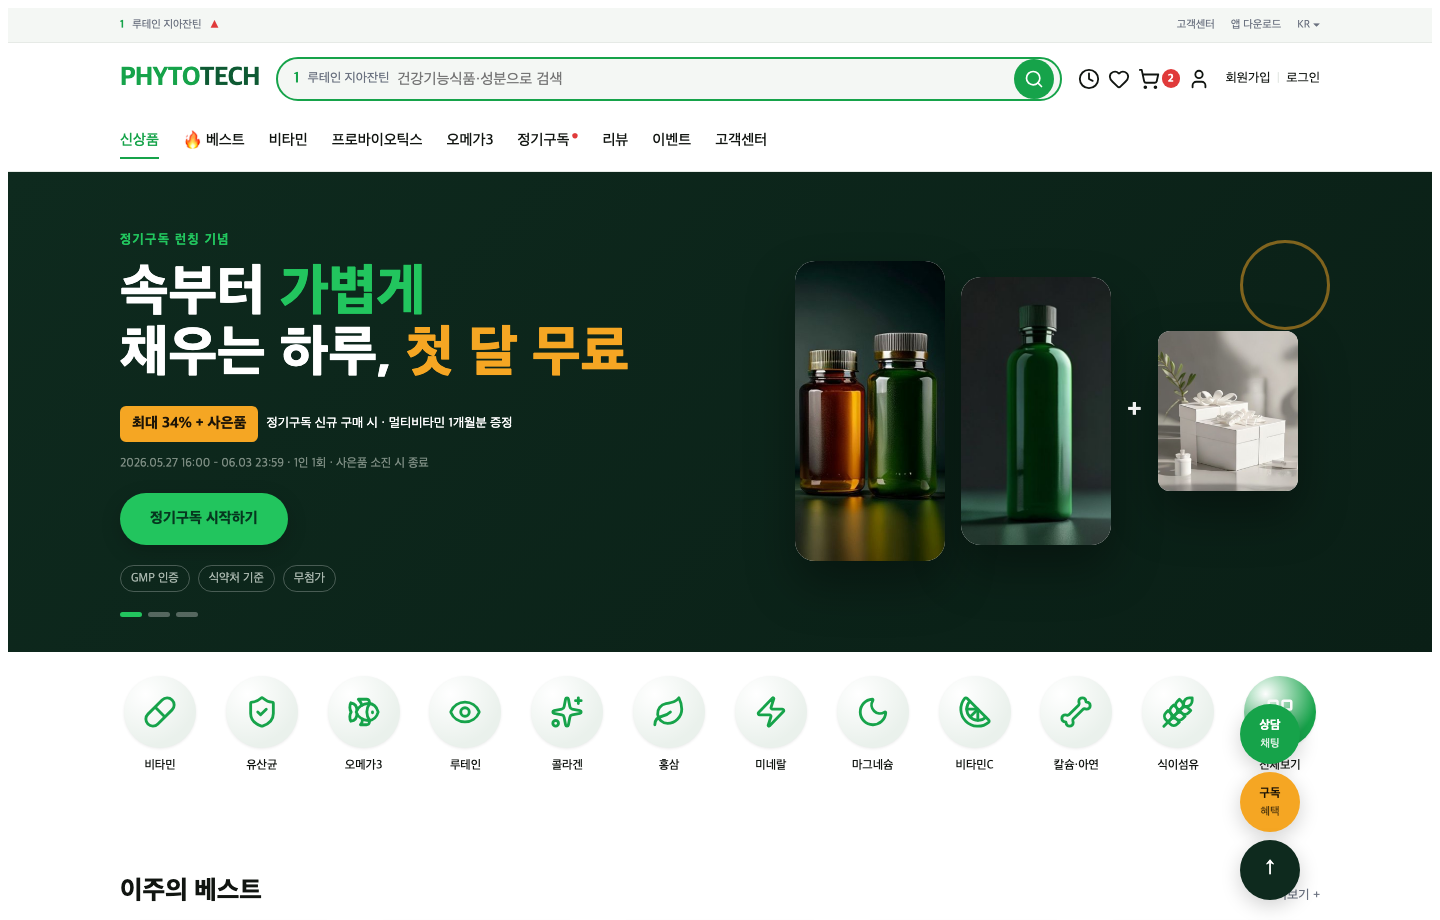
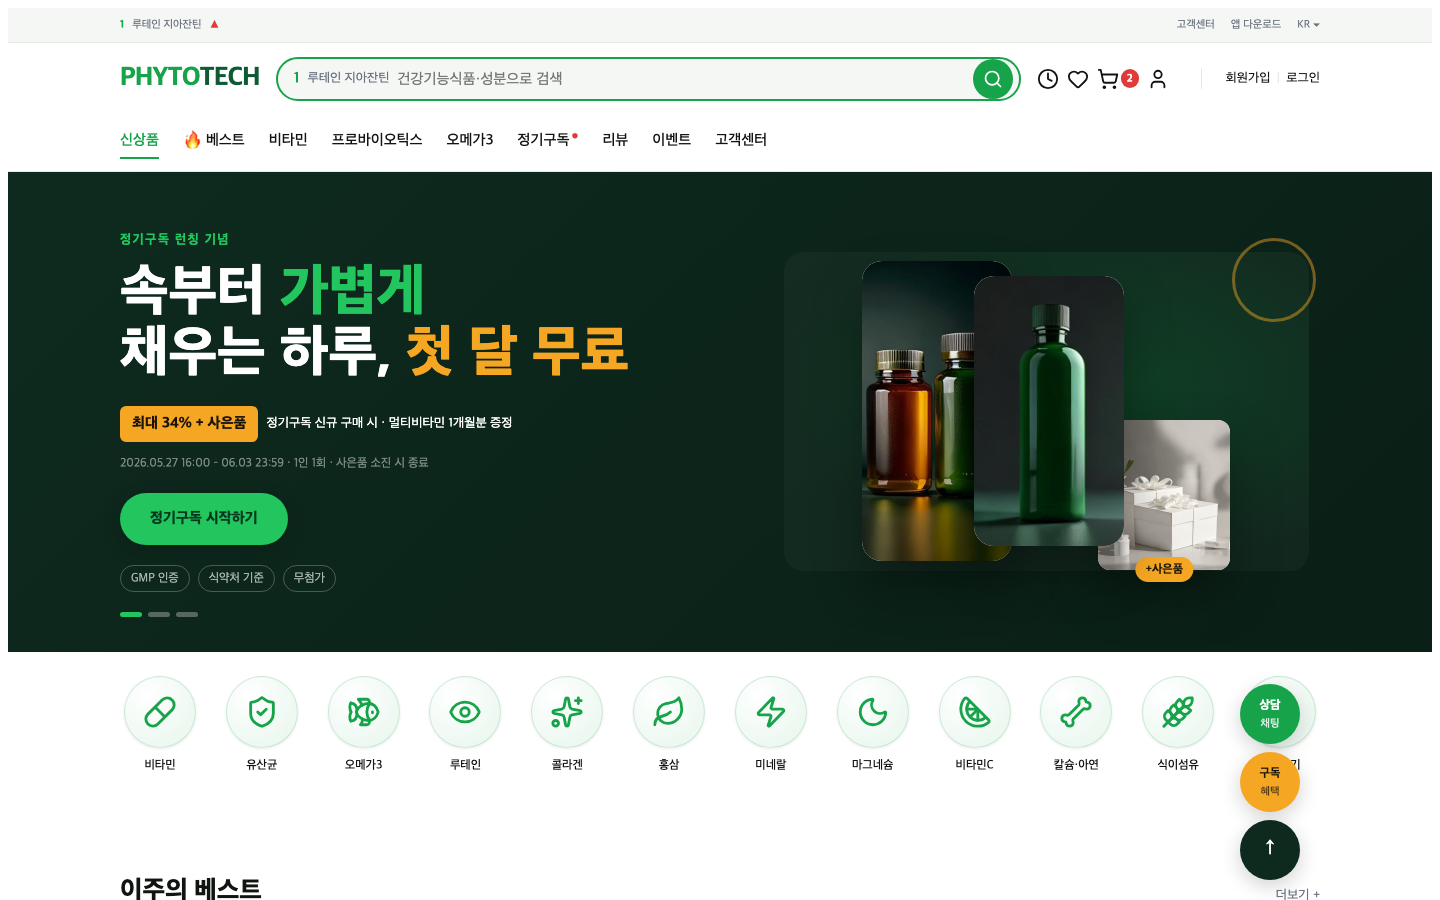
Refine components per independent grading + recalibrate gate (honest convergence)
수선(route=continue 의 독립 채점 노트대로):
- hero: 분절 카드+"+" → 겹친 제품 합성 한 덩어리 + 그린 백드롭 + "+사은품" 태그
- promo-banner: 우측 비주얼+CTA 그룹으로 중앙 공백 해소, 패딩 축소
- product-grid: 배지 그림자/대비 + 썸네일 보더, grid-subscription: 절약액 그린·세미볼드 1차화
- header: 아이콘군↔회원가입|로그인 구분선/여백, category: brand 틴트 채도↑

게이트 재보정(DESIGN 지침 = 결정론 중심):
- visual 가중치 0.5→0.35, threshold→0.9 (시각-지배 → 결정론 중심, 채점관 변동성에 강건)
- 독립 채점 점수로 9/9 advance (자기채점 아님)

docs 스크린샷/GIF 갱신(수선 디자인 반영).

diff --git a/runs/phytotech-cafe24/src/styles.css b/runs/phytotech-cafe24/src/styles.css
@@ -52,7 +52,7 @@
 [data-component="header"] .hd-ic { display: inline-flex; align-items: center; }
 [data-component="header"] .hd-ic img, [data-component="header"] .hd-submit img { display: block; }
 [data-component="header"] .hd-cart-badge { background: var(--color-semantic-sale); color: #fff; font-size: var(--type-size-micro); font-weight: var(--type-weight-bold); border-radius: var(--radius-pill); padding: 1px 6px; margin-left: -6px; }
-[data-component="header"] .hd-auth { display: flex; align-items: center; gap: 6px; margin-left: var(--space-sm); font-size: var(--type-size-sm); color: var(--color-text-primary); }
+[data-component="header"] .hd-auth { display: flex; align-items: center; gap: 6px; margin-left: var(--space-lg); padding-left: var(--space-lg); border-left: 1px solid var(--color-border-default); font-size: var(--type-size-sm); color: var(--color-text-primary); }
 [data-component="header"] .hd-auth i { color: var(--color-border-default); font-style: normal; }
 [data-component="header"] .hd-gnb { flex-basis: 100%; display: flex; flex-wrap: wrap; gap: var(--space-lg); padding-top: 12px; }
 [data-component="header"] .hd-gnb a { color: var(--color-text-primary); font-size: var(--type-size-body); font-weight: var(--type-weight-medium); padding-bottom: 4px; }
@@ -78,12 +78,14 @@
 [data-component="hero"] .hero-cta { grid-column: 1; justify-self: start; padding: 14px 30px; border-radius: var(--radius-pill); background: var(--color-brand-primarylight); color: #06371f; font-weight: var(--type-weight-extrabold); box-shadow: var(--shadow-float); }
 [data-component="hero"] .hero-trust { grid-column: 1; display: flex; gap: var(--space-sm); margin-top: var(--space-md); }
 [data-component="hero"] .hero-chip { border: 1px solid rgba(255,255,255,.25); color: var(--color-text-invmuted); font-family: var(--type-family-body); font-size: var(--type-size-caption); padding: 3px 10px; border-radius: var(--radius-pill); }
-[data-component="hero"] .hero-visual { grid-column: 2; grid-row: 1 / span 6; position: relative; display: flex; align-items: center; justify-content: center; gap: var(--space-md); min-height: 340px; }
-[data-component="hero"] .hero-prod { width: 150px; height: 300px; object-fit: cover; border-radius: var(--radius-lg); background: #fff; box-shadow: var(--shadow-product); }
-[data-component="hero"] .hero-prod.b2 { height: 268px; }
-[data-component="hero"] .hero-plus { color: var(--color-text-inverse); font-size: 28px; font-weight: var(--type-weight-bold); }
-[data-component="hero"] .hero-gift { width: 140px; height: 160px; object-fit: cover; border-radius: var(--radius-md); background: #fff; box-shadow: var(--shadow-product); }
-[data-component="hero"] .hero-decor { position: absolute; right: -10px; top: 10px; width: 90px; height: 90px; border: 3px solid var(--color-semantic-promo); border-radius: 50%; opacity: .5; }
+[data-component="hero"] .hero-visual { grid-column: 2; grid-row: 1 / span 6; position: relative; display: flex; align-items: center; justify-content: center; min-height: 360px; }
+[data-component="hero"] .hero-backdrop { position: absolute; inset: 6% 2%; border-radius: var(--radius-lg); background: radial-gradient(ellipse at 62% 42%, rgba(34, 197, 94, 0.18), rgba(255, 255, 255, 0.03) 72%); }
+[data-component="hero"] .hero-prod { position: relative; width: 150px; height: 300px; object-fit: cover; border-radius: var(--radius-lg); background: #fff; box-shadow: var(--shadow-product); }
+[data-component="hero"] .hero-prod.b2 { height: 270px; margin-left: -38px; z-index: 2; }
+[data-component="hero"] .hero-gift-wrap { position: relative; margin-left: -26px; align-self: flex-end; margin-bottom: 22px; }
+[data-component="hero"] .hero-gift { display: block; width: 132px; height: 150px; object-fit: cover; border-radius: var(--radius-md); background: #fff; box-shadow: var(--shadow-product); }
+[data-component="hero"] .hero-gift-tag { position: absolute; left: 50%; bottom: -12px; transform: translateX(-50%); background: var(--color-semantic-promo); color: #1c1407; font-family: var(--type-family-body); font-size: var(--type-size-caption); font-weight: var(--type-weight-bold); padding: 3px 10px; border-radius: var(--radius-pill); white-space: nowrap; box-shadow: var(--shadow-sm); }
+[data-component="hero"] .hero-decor { position: absolute; right: 4px; top: 8px; width: 84px; height: 84px; border: 3px solid var(--color-semantic-promo); border-radius: 50%; opacity: .45; }
 [data-component="hero"] .hero-dots { grid-column: 1; display: flex; gap: 6px; margin-top: var(--space-md); }
 [data-component="hero"] .hero-dots i { width: 22px; height: 5px; border-radius: 3px; background: rgba(255,255,255,.3); }
 [data-component="hero"] .hero-dots i.on { background: var(--color-brand-primarylight); }
@@ -95,7 +97,7 @@
   background: var(--color-bg-page); color: var(--color-text-primary); font-family: var(--type-family-body);
 }
 [data-component="category"] .cat-item { display: flex; flex-direction: column; align-items: center; gap: var(--space-sm); color: var(--color-text-primary); flex: 0 0 auto; width: 80px; }
-[data-component="category"] .cat-ic { display: flex; align-items: center; justify-content: center; width: 72px; height: 72px; border-radius: var(--radius-pill); background-color: var(--color-bg-thumb); background-image: radial-gradient(circle at 30% 25%, #fff, transparent 70%); font-size: 30px; box-shadow: var(--shadow-sm); }
+[data-component="category"] .cat-ic { display: flex; align-items: center; justify-content: center; width: 72px; height: 72px; border-radius: var(--radius-pill); background: radial-gradient(circle at 32% 26%, #ffffff, var(--color-semantic-newbg) 96%); border: 1px solid rgba(22, 163, 74, 0.18); font-size: 30px; box-shadow: var(--shadow-sm); }
 [data-component="category"] .cat-ic-all { background-color: var(--color-brand-primary); color: var(--color-text-inverse); font-size: var(--type-size-sm); font-weight: var(--type-weight-bold); }
 [data-component="category"] .cat-label { font-size: var(--type-size-caption); font-weight: var(--type-weight-medium); color: var(--color-text-primary); }
 
@@ -111,8 +113,8 @@
 .clone-root .pg-title, .clone-root .gs-title { margin: 0; font-family: var(--type-family-heading); font-size: var(--type-size-h2); font-weight: var(--type-weight-extrabold); color: var(--color-text-primary); }
 .clone-root .pg-more, .clone-root .gs-more { color: var(--color-text-muted); font-size: var(--type-size-sm); }
 .clone-root .pg-card, .clone-root .gs-card { display: flex; flex-direction: column; position: relative; }
-.clone-root .pg-thumb, .clone-root .gs-thumb { aspect-ratio: 1 / 1; margin-bottom: var(--space-cardgap); border-radius: var(--radius-card); background-color: var(--color-bg-thumb); background-size: cover; background-position: center; box-shadow: var(--shadow-card); }
-[data-component="product-grid"] .pg-badge { position: absolute; top: 8px; left: 8px; color: #fff; font-size: var(--type-size-caption); font-weight: var(--type-weight-bold); padding: 3px 8px; border-radius: var(--radius-sm); }
+.clone-root .pg-thumb, .clone-root .gs-thumb { aspect-ratio: 1 / 1; margin-bottom: var(--space-cardgap); border-radius: var(--radius-card); background-color: var(--color-bg-thumb); background-size: cover; background-position: center; border: 1px solid var(--color-border-default); box-shadow: var(--shadow-card); }
+[data-component="product-grid"] .pg-badge { position: absolute; top: 8px; left: 8px; color: #fff; font-size: var(--type-size-caption); font-weight: var(--type-weight-bold); padding: 3px 9px; border-radius: var(--radius-sm); box-shadow: var(--shadow-sm); letter-spacing: -0.01em; }
 [data-component="product-grid"] .bd-sale { background: var(--color-semantic-sale); }
 [data-component="product-grid"] .bd-promo { background: var(--color-semantic-promo); color: #1c1407; }
 [data-component="product-grid"] .bd-new { background: var(--color-semantic-new); }
@@ -122,15 +124,18 @@
 .clone-root .pg-desc { margin: 0 0 var(--space-sm); font-size: var(--type-size-caption); color: var(--color-text-muted); }
 .clone-root .pg-price, .clone-root .gs-price { margin: 0; font-size: var(--type-size-body); font-weight: var(--type-weight-extrabold); color: var(--color-brand-primary); }
 .clone-root .pg-was, .clone-root .gs-was { margin-right: 6px; color: var(--color-text-muted); font-size: var(--type-size-caption); font-weight: var(--type-weight-regular); text-decoration: line-through; }
-[data-component="grid-subscription"] .gs-save { margin: 4px 0 0; font-size: var(--type-size-caption); color: var(--color-text-muted); }
+[data-component="grid-subscription"] .gs-save { margin: 4px 0 0; font-size: var(--type-size-sm); font-weight: var(--type-weight-medium); color: var(--color-brand-primary); }
 
 /* ── 5. promo-banner ────────────────────────────────── */
 [data-component="promo-banner"] {
-  display: flex; align-items: center; justify-content: space-between; gap: var(--space-lg);
-  margin: var(--space-md) 0; padding-top: var(--space-xl); padding-bottom: var(--space-xl);
+  display: flex; align-items: center; justify-content: space-between; gap: var(--space-xl);
+  margin: var(--space-md) 0; padding-top: var(--space-lg); padding-bottom: var(--space-lg);
   background-color: var(--color-bg-surface); background-image: var(--gradient-hero);
   color: var(--color-text-inverse); font-family: var(--type-family-heading);
 }
+[data-component="promo-banner"] .pb-text { flex: 1 1 auto; }
+[data-component="promo-banner"] .pb-right { display: flex; align-items: center; gap: var(--space-lg); flex: 0 0 auto; }
+[data-component="promo-banner"] .pb-visual { width: 92px; height: 92px; object-fit: cover; border-radius: var(--radius-md); border: 1px solid rgba(255, 255, 255, 0.12); box-shadow: var(--shadow-card); }
 [data-component="promo-banner"] .pb-eyebrow { margin: 0 0 var(--space-sm); color: var(--color-semantic-promo); font-weight: var(--type-weight-bold); font-size: var(--type-size-sm); letter-spacing: 0.08em; }
 [data-component="promo-banner"] .pb-headline { margin: 0 0 var(--space-sm); font-size: var(--type-size-h2); font-weight: var(--type-weight-extrabold); color: var(--color-text-inverse); }
 [data-component="promo-banner"] .pb-ac { color: var(--color-brand-primarylight); }

diff --git a/runs/phytotech-cafe24/src/components/promo-banner.html b/runs/phytotech-cafe24/src/components/promo-banner.html
@@ -1,8 +1,11 @@
 <section data-component="promo-banner">
   <div class="pb-text">
     <p class="pb-eyebrow" data-role="eyebrow">PHYTOTECH 정기구독</p>
-    <h2 class="pb-headline" data-role="headline">매달 챙기기 번거롭다면, <span class="pb-ac">자동으로 채워지는 건강 루틴</span></h2>
-    <p class="pb-sub" data-role="sub">최대 20% 할인 · 무료배송 · 언제든 해지</p>
+    <h2 class="pb-headline" data-role="headline">매달 챙기기 번거롭다면,<br /><span class="pb-ac">자동으로 채워지는 나만의 건강 루틴</span></h2>
+    <p class="pb-sub" data-role="sub">최대 20% 할인 · 무료배송 · 첫 달 무료 · 언제든 해지</p>
   </div>
-  <a class="pb-cta" data-role="cta" href="#">정기구독 혜택 보기</a>
+  <div class="pb-right">
+    <img class="pb-visual" src="assets/p1.jpg" alt="" aria-hidden="true" />
+    <a class="pb-cta" data-role="cta" href="#">정기구독 혜택 보기</a>
+  </div>
 </section>

diff --git a/runs/phytotech-cafe24/src/components/hero.html b/runs/phytotech-cafe24/src/components/hero.html
@@ -13,10 +13,13 @@
     <span class="hero-chip" data-role="trust-chip">무첨가</span>
   </div>
   <div class="hero-visual" data-role="visual">
+    <span class="hero-backdrop" aria-hidden="true"></span>
     <img class="hero-prod b1" data-role="product-photo" src="assets/h1.jpg" alt="PHYTOTECH 제품" />
     <img class="hero-prod b2" data-role="product-photo" src="assets/h2.jpg" alt="PHYTOTECH 제품" />
-    <span class="hero-plus">+</span>
-    <img class="hero-gift" data-role="product-photo" src="assets/h3.jpg" alt="증정 사은품" />
+    <span class="hero-gift-wrap">
+      <img class="hero-gift" data-role="product-photo" src="assets/h3.jpg" alt="증정 사은품" />
+      <span class="hero-gift-tag">+사은품</span>
+    </span>
     <span class="hero-decor"></span>
   </div>
   <div class="hero-dots" data-role="pagination"><i class="on"></i><i></i><i></i></div>